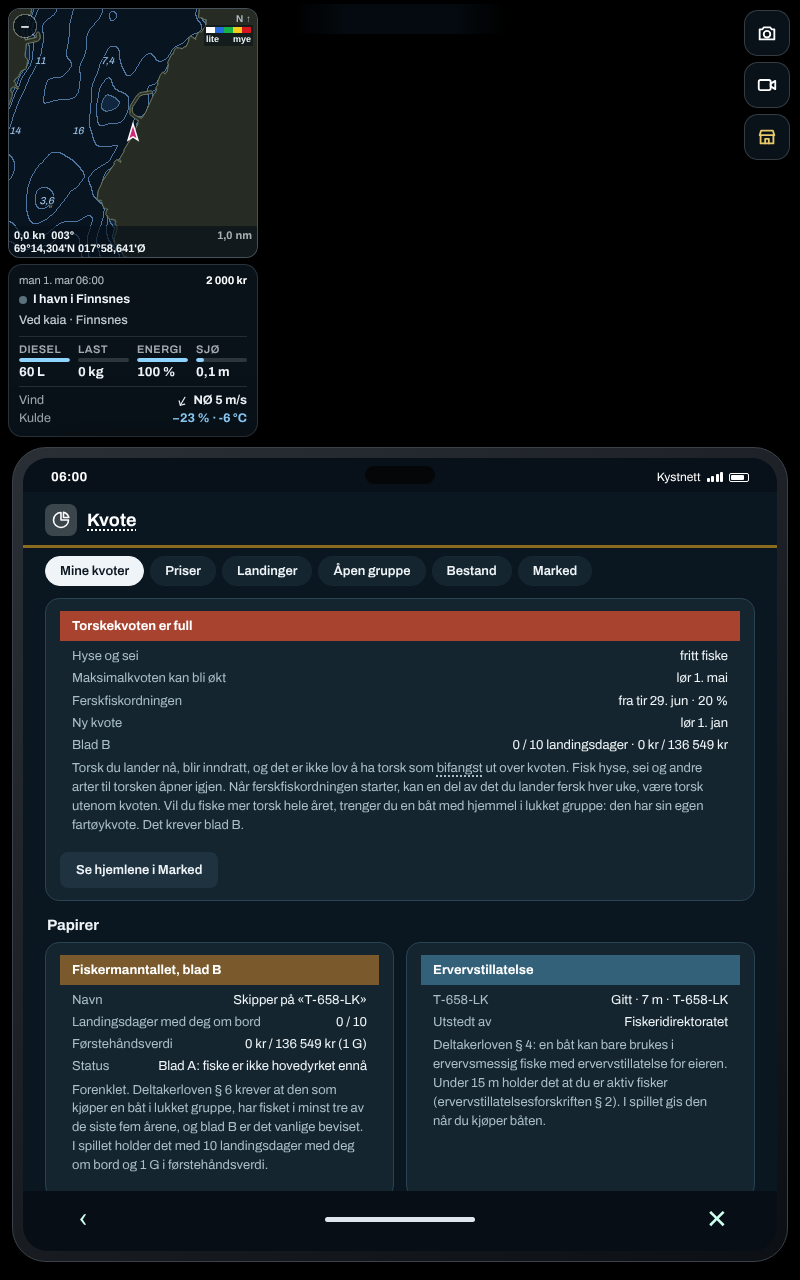
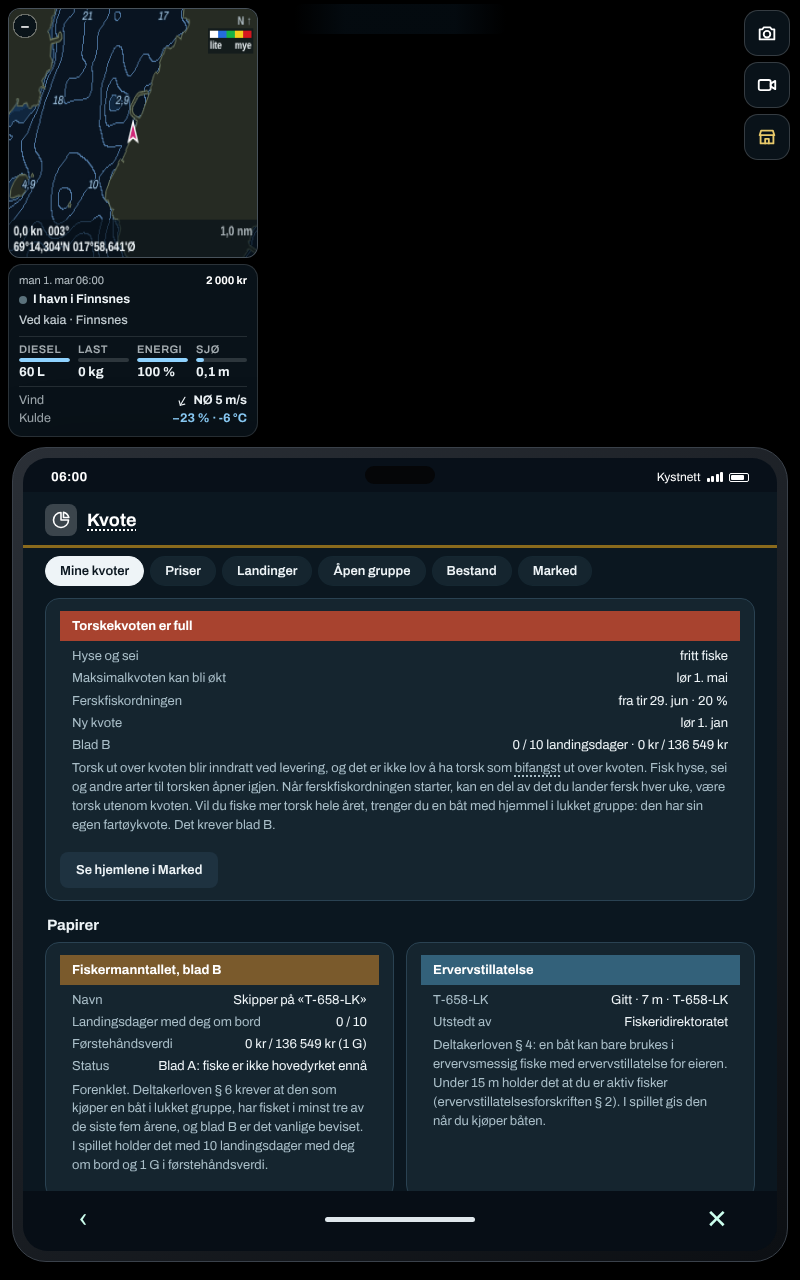
KV1 (steg 148): rettingene etter den uavhengige kontrollen
Kontrollen sjekket de fem «Ferdig når»-punktene (alle holdt) og fant sju ting. Rettet:
- Kortet «Torskekvoten er full» regner med torsken om bord, slik varselet i loggen gjør («Torsken om bord
  fyller kvoten» med kiloene), så loggen ikke sender spilleren til et kort som ikke vises.
- Mens ferskfiskordningen gjelder, sier kortet at torsk innenfor andelen går utenom kvoten, ikke at all
  torsk inndras.
- Brevet fra Fiskeridirektoratet kom to ganger etter et båtbytte i åpen gruppe: året står nå på lagringen
  (S.addSaidY), ikke på båtens kvote.
- kystOrd holdes per havn (KYSTC): et hjemsted uten egen kommune lette gjennom alle mottak hvert fiskeminutt.
- Fillista i køen og COVER for kvfulltest.
- Atferdssjekkene i enhetstesten er sett røde med tilleggene satt til null (13 FEIL), ikke bare på at
  funksjonene manglet.
Ikke endret: hjemstedet kan flyttes én gang uten at båten flyttes, så tillegget kan hentes ved å flytte
hjem; skrevet i systemdokumentet og meldt til Jonas.

Tester: enhetstestene 5448 OK, kvfulltest 16 OK (to nye sjekker), quotatest 18 OK, trip2 OK.

Claude-Session: https://claude.ai/code/session_013BxXiCpuL8btzFWUHpeW7u

Changed region(s): [[0.0938, 0.5938, 0.9062, 0.6562], [0.0, 0.0, 0.3125, 0.2188], [0.2812, 0.1562, 0.3125, 0.1875]]

diff --git a/src/js/ui/phone/04-kvote.js b/src/js/ui/phone/04-kvote.js
@@ -11,16 +11,23 @@
   // mer kvote»): the card says what is open now and when the next things come, with the dates, at the top of Mine kvoter. Nothing here is
   // a promise: a raise on 1 May or 1 June comes only when the group cannot take its quota (qyStep)
   function kvFull(H){
-    if (S.lic || access() !== 'open') return ''; const lim = codLimitNow(H), q = quotaState(); if (!isFinite(lim) || lim - q.torsk > 25) return '';
-    const y = yearH(H), d = doyH(H), Y = qyAt(H), pct = ffPct(H), F = S.fm || {n:0, kr:0, b:false}, rows = [[L('Hyse og sei', 'Haddock and saithe'), L('fritt fiske', 'free fishing')]];
+    // the cod aboard counts, as in the warning in the log (05-vessels.js fish): the card is there when the log sends the player here
+    if (S.lic || access() !== 'open') return ''; const lim = codLimitNow(H), q = quotaState(), ab = Math.max(0, S.hold.filter(x => x.sp === 'torsk').reduce((a, x) => a + x.kg, 0) - sorCodAboard());
+    if (!isFinite(lim) || lim - q.torsk - ab > 25) return '';
+    const y = yearH(H), d = doyH(H), Y = qyAt(H), pct = ffPct(H), F = S.fm || {n:0, kr:0, b:false}, landed = lim - q.torsk <= 25, nextFF = pct ? null : ffPlan(y).find(x => x[0] > d && x[1] > 0);
+    const rows = [[L('Hyse og sei', 'Haddock and saithe'), L('fritt fiske', 'free fishing')]];
+    if (!landed) rows.unshift([L('Torsk om bord', 'Cod aboard'), fmt(ab, 0) + ' kg · ' + L('igjen på kvoten ', 'left on the quota ') + fmt(Math.max(0, lim - q.torsk), 0) + ' kg']);
     if (Y.stop == null && Y.free == null){ const nx = [doyOf(y, 5, 1), doyOf(y, 6, 1)].find(x => x > d); if (nx != null) rows.push([L('Maksimalkvoten kan bli økt', 'The maximum quota may be raised'), dayStr(hOfDoy(y, nx))]); }
     if (pct) rows.push([L('Ferskfiskordningen', 'Fresh-fish scheme'), L('nå: ', 'now: ') + Math.round(pct * 100) + L(' % torsk av det du lander fersk', ' % cod of what you land fresh')]);
-    else { const p = ffPlan(y).find(x => x[0] > d && x[1] > 0); if (p) rows.push([L('Ferskfiskordningen', 'Fresh-fish scheme'), L('fra ', 'from ') + dayStr(hOfDoy(y, p[0])) + ' · ' + Math.round(p[1] * 100) + ' %']); }
+    else if (nextFF) rows.push([L('Ferskfiskordningen', 'Fresh-fish scheme'), L('fra ', 'from ') + dayStr(hOfDoy(y, nextFF[0])) + ' · ' + Math.round(nextFF[1] * 100) + ' %']);
     rows.push([L('Ny kvote', 'New quota'), dayStr(hOfDoy(y + 1, 0))]);
     rows.push([L('Blad B', 'Blad B'), F.b ? L('ført', 'entered') : fmt(F.n, 0) + ' / ' + BLADB.days + L(' landingsdager · ', ' landing days · ') + kr(F.kr) + ' / ' + kr(BLADB.kr)]);
-    return '<div class="ph-card papc" id="kvFull"><div class="pap-h" style="background:#a8432f">' + L('Torskekvoten er full', 'The cod quota is full') + '</div>' + rows.map(([a, b]) => kv(a, b)).join('') +
-      '<p class="ph-note">' + L('Torsk du lander nå, blir inndratt, og det er ikke lov å ha torsk som bifangst ut over kvoten. Fisk hyse, sei og andre arter til torsken åpner igjen. ' + (pct ? '' : 'Når ferskfiskordningen starter, kan en del av det du lander fersk hver uke, være torsk utenom kvoten. ') + 'Vil du fiske mer torsk hele året, trenger du en båt med hjemmel i lukket gruppe: den har sin egen fartøykvote. Det krever blad B.',
-        'Cod you land now is confiscated, and cod may not be a bycatch beyond the quota. Fish haddock, saithe and other species until the cod opens again. ' + (pct ? '' : 'When the fresh-fish scheme starts, a share of what you land fresh each week may be cod outside the quota. ') + 'To fish more cod all year you need a boat with a right in the closed group: it has a vessel quota of its own. That needs blad B.') + '</p>' +
+    // what happens to cod landed now: within the fresh-fish share of the week's fresh landings it is outside the quota, the rest is confiscated
+    const now = pct ? L('Kvoten er brukt opp. Torsk innenfor ferskfiskordningen, ' + Math.round(pct * 100) + ' % av det du lander fersk hver uke, går utenom kvoten; torsk ut over det blir inndratt. ', 'The quota is used up. Cod within the fresh-fish scheme, ' + Math.round(pct * 100) + ' % of what you land fresh each week, is outside the quota; cod beyond that is confiscated. ')
+      : L('Torsk ut over kvoten blir inndratt ved levering, og det er ikke lov å ha torsk som bifangst ut over kvoten. Fisk hyse, sei og andre arter til torsken åpner igjen. ', 'Cod beyond the quota is confiscated at the landing, and cod may not be a bycatch beyond the quota. Fish haddock, saithe and other species until the cod opens again. ') +
+        (nextFF ? L('Når ferskfiskordningen starter, kan en del av det du lander fersk hver uke, være torsk utenom kvoten. ', 'When the fresh-fish scheme starts, a share of what you land fresh each week may be cod outside the quota. ') : '');
+    return '<div class="ph-card papc" id="kvFull"><div class="pap-h" style="background:#a8432f">' + (landed ? L('Torskekvoten er full', 'The cod quota is full') : L('Torsken om bord fyller kvoten', 'The cod aboard fills the quota')) + '</div>' + rows.map(([a, b]) => kv(a, b)).join('') +
+      '<p class="ph-note">' + now + L('Vil du fiske mer torsk hele året, trenger du en båt med hjemmel i lukket gruppe: den har sin egen fartøykvote. Det krever blad B.', 'To fish more cod all year you need a boat with a right in the closed group: it has a vessel quota of its own. That needs blad B.') + '</p>' +
       '<button class="ph-btn alt" data-pa="sub" data-s="mkt">' + L('Se hjemlene i Marked', 'See the rights in Market') + '</button></div>';
   }
   // Ø10c: the caps south of 62° N (core/03d-quota.js SORQ): the open group's 3 tonnes of cod in the North Sea and the jig exception's 3 tonnes

diff --git a/src/js/core/03d-quota.js b/src/js/core/03d-quota.js
@@ -239,7 +239,9 @@ function portKom(pt){
   // a plant with a place name for a municipality: the nearest plant's municipality within the same town, else the place name itself
   return bd < 3 || !own ? best : String(own).toLowerCase();
 }
-function kystOrd(pid){ const pt = pid && typeof portById === 'function' ? portById(pid) : null; if (!pt) return false; const w = portKom(pt).split(' '); return KYSTORD.some(k => w.includes(k)); }
+// (kept per harbour: codLimitNow asks every fishing minute, and a home without a municipality of its own looks through every plant)
+const KYSTC = {};
+function kystOrd(pid){ if (pid && KYSTC[pid] != null) return KYSTC[pid]; const pt = pid && typeof portById === 'function' ? portById(pid) : null; if (!pt) return false; const w = portKom(pt).split(' '); return KYSTC[pid] = KYSTORD.some(k => w.includes(k)); }
 // this save's additions now, kg: {kyst, alder, sum} (the open group only: codLimits asks)
 function openAdd(H){ if (H == null) H = S.t / 60; const O = yearQuota(yearH(H)).open, kyst = kystOrd(S.home || HOME0) ? Math.round(O.kyst * 1000) : 0, alder = Math.round(O.alder * 1000); return {kyst, alder, sum:kyst + alder}; }
 // the part of a landing's quota cod that is taken from the open group's quota: the coastal scheme has its own set-aside (0.9 % of
@@ -249,9 +251,10 @@ function codGroupKg(before, codQ, lim, kyst){ if (!(kyst > 0) || !isFinite(lim))
 // the Directorate's letter about the vessel's cod quota in the open group, once a year when over half of it is landed (and so at once,
 // the day the additions came, for those who had filled § 21's quota): what the quota is made of and what is left
 function openAddNews(H){
-  if (S.lic || access() !== 'open') return; const q = quotaState(); if (q.addSaid) return;
-  const lim = codLimitNow(H); if (!isFinite(lim) || q.torsk < 0.5 * lim) return; q.addSaid = 1;
-  const l = codLimits(H), y = yearH(H), en = kg => (kg / 1000).toFixed(1), t1 = kg => en(kg).replace('.', ','), b = (codOpen(H) ? l.base.max : l.base.guar), left = Math.max(0, lim - q.torsk);
+  // (S.addSaidY, the year, on the save and not on the vessel's quota: a boat traded for another in the open group starts a new S.quota)
+  if (S.lic || access() !== 'open') return; const q = quotaState(), y = yearH(H); if (S.addSaidY === y) return;
+  const lim = codLimitNow(H); if (!isFinite(lim) || q.torsk < 0.5 * lim) return; S.addSaidY = y;
+  const l = codLimits(H), en = kg => (kg / 1000).toFixed(1), t1 = kg => en(kg).replace('.', ','), b = (codOpen(H) ? l.base.max : l.base.guar), left = Math.max(0, lim - q.torsk);
   msg('Fiskeridirektoratet', 'Du har landet over halvparten av torskekvoten din i åpen gruppe. Kvoten din i ' + y + ' er ' + t1(lim) + ' tonn: ' + t1(b) + ' tonn etter båtens lengde' + (l.add.kyst ? ', ' + t1(l.add.kyst) + ' tonn fra kystfiskeordningen' : '') + ' og ' + t1(l.add.alder) + ' tonn i alderstillegg. Igjen nå: ' + t1(left) + ' tonn.',
     'You have landed over half of your cod quota in the open group. Your quota in ' + y + ' is ' + en(lim) + ' tonnes: ' + en(b) + ' tonnes by the vessel\'s length' + (l.add.kyst ? ', ' + en(l.add.kyst) + ' tonnes from the coastal-fishing scheme' : '') + ' and ' + en(l.add.alder) + ' tonnes as the age addition. Left now: ' + en(left) + ' tonnes.');
 }

diff --git a/tests/kvfulltest.py b/tests/kvfulltest.py
@@ -60,6 +60,12 @@ async def main():
         await pg.screenshot(path=os.path.join(OUT, 'kvfull_vangshamn_liggende.png')); fits.append(await pg.evaluate(FIT))
         ld = await pg.evaluate(LAND + "(500)")
         check(ld['room'] == ya and ld['codQ'] == ya and ld['conf'] == 500 and ld['grp'] == ya, 'leveringen: alderstillegget går på kvoten (alt på gruppekvota utenfor ordningen) og 500 kg over blir inndratt', ld)
+        # 2b. the cod aboard counts as in the log's warning: 1 000 kg left on the quota and 1 200 kg aboard shows the card, with what is left
+        ab = await pg.evaluate("(() => { const q = quotaState(), lim = codLimitNow(S.t / 60); q.torsk = lim - 1000; S.hold = [{sp:'torsk', kg:1200, t:S.t, q:1}]; PHONE.render(); const a = (document.querySelector('#kvFull') || {}).textContent || ''; S.hold = [{sp:'torsk', kg:400, t:S.t, q:1}]; PHONE.render(); const b = !!document.querySelector('#kvFull'); S.hold = []; return {a, b}; })()")
+        check('Torsken om bord fyller kvoten' in ab['a'] and 'Torsk om bord1 200 kg' in ab['a'].replace('\u00a0', ' ') and not ab['b'], 'torsken om bord teller: 1 000 kg igjen og 1 200 kg om bord viser kortet «Torsken om bord fyller kvoten», 400 kg om bord gjør det ikke', ab['a'][:160])
+        # 2c. the fresh-fish scheme on (after 29 June): the card says what goes outside the quota, not that all cod is confiscated
+        ff = await pg.evaluate("(() => { const t0 = S.t, y = yearH(S.t / 60); S.t = Math.round(hOfDoy(y, doyOf(y, 8, 1)) * 60); const q = freshQuota(), H = S.t / 60, pct = ffPct(H); q.torsk = codLimitNow(H); PHONE.render(); const a = (document.querySelector('#kvFull') || {}).textContent || ''; const fin = isFinite(codLimitNow(H)); S.t = t0; S.quota = null; PHONE.render(); return {a, pct, fin}; })()")
+        check((not ff['fin']) or (ff['pct'] > 0 and 'går utenom kvoten' in ff['a'] and 'Når ferskfiskordningen starter' not in ff['a'] and 'Fisk hyse, sei og andre arter til torsken åpner igjen' not in ff['a']), '1. august med full kvote: kortet sier at torsk innenfor ferskfiskordningen går utenom kvoten, ikke at all torsk inndras', {'pct': ff['pct'], 'fin': ff['fin'], 'a': ff['a'][:260]})
         # 3. the coast, three more homes: north (Honningsvåg, in), middle (Henningsvær, out), south of 62° N (Egersund, out)
         for name, inn in [('Honningsvåg', True), ('Skjervøy', True), ('Henningsvær', False), ('Egersund', False)]:
             s = await pg.evaluate(SETUP + "(%s, 0.2)" % json.dumps(name))

diff --git a/tests/run.py b/tests/run.py
@@ -223,7 +223,7 @@ COVER['src/js/ui/phone/04b-kvotemarked.js'] = ['kvotemarkedtest', 'quotatest']
 COVER['src/js/ui/10t-kvotemarked.js'] = ['kvotemarkedtest']
 COVER['tests/kvotemarkedtest.py'] = ['kvotemarkedtest']
 COVER['src/js/ui/phone/04-kvote.js'] = COVER['src/js/ui/phone/04-kvote.js'] + ['kvotemarkedtest']
-for _f in ('src/js/ui/phone/04-kvote.js', 'src/js/core/03d-quota.js', 'tests/kvfulltest.py'): COVER.setdefault(_f, []).append('kvfulltest')   # KV1, steg 148
+for _f in ('src/js/ui/phone/04-kvote.js', 'src/js/core/03d-quota.js', 'src/js/ui/phone/09-vaer-post-salg-redning.js', 'src/js/core/03-simulation.js', 'tests/kvfulltest.py'): COVER.setdefault(_f, []).append('kvfulltest')   # KV1, steg 148
 COVER['tests/unit/market3.test.mjs'] = []
 # KM4 (the boat with or without her right, 11.11.2026): megletest plays the choice, the move and the yard's trade-in
 for _f in ('src/js/ui/phone/14-act.js', 'src/js/ui/phone/10-fartoy.js'):

diff --git a/docs/systemer/kodekart.md b/docs/systemer/kodekart.md
@@ -517,7 +517,7 @@ STABILITY: hydrostatics, the boat's motions in a sea, and what they do to the wo
   - 276 `hullX(R)`
   - 291 `hullStep(H, R, X, eta, deta, dt, o)`
 
-## `src/js/core/03d-quota.js` (614 linjer)
+## `src/js/core/03d-quota.js` (617 linjer)
 
 Quotas for cod, haddock and saithe north of 62° N. The regulation as it stood from 1 October 2026 (J-187-2026, fiskeridir.no)
 
@@ -549,70 +549,70 @@ Quotas for cod, haddock and saithe north of 62° N. The regulation as it stood f
   - 213 `openMaxAdd(H)`
 - **214** the open group's two additions to the cod quota (KV1, steg 148, 25.11.2026; J-161-2026 §§ 22 and 23, read on fiskeridir.no
   - 233 `portKom(pt)`
-  - 242 `kystOrd(pid)`
-  - 244 `openAdd(H)`
-  - 248 `codGroupKg(before, codQ, lim, kyst)`
-  - 251 `openAddNews(H)`
-  - 262 `ffPlan(y)`
-  - 270 `ffPct(H)`
-- **272** the closed group's register: a fixed number of rights (1 622 in the cod fishery north of 62° N on 17.10.2025, case document
-  - 290 `npcReg()`
-  - 292 `regSend(fn, id)`
-  - 297 `regTake(id)`
-  - 299 `regFree(id)`
-  - 301 `regSeller(id, H)`
-- **303** structure quotas (forskrift om spesielle kvoteordninger for kystfiskeflåten, J-244-2025): quota lengths 11–27.99 m may buy a
-  - 311 `structFits(l, add)`
-  - 312 `structRoom(l, id)`
-  - 313 `structPrice(id, H)`
-  - 315 `structIn(l, id, H)`
-  - 316 `licExtra(l)`
-  - 318 `structExpire(l, y)`
-- **319** the special scheme for quota lengths under 11 m (kap. 2, from 2025): an owner with two such boats, both owned since the year
-  - 321 `twoOK(la, lb, y)`
-- **322** quota cooperation (J-187-2026 § 31): two closed-group boats under 11 m with different owners; both owners aboard, the passive
-  - 326 `coopOffer(H)`
-  - 327 `coopOK(l, y)`
-- **329** the ocean permits (H1 of docs/planer/havsteget.md, 03.11.2026). Jonas' choices the same day: V1 A (the autoliner first), V2 B
-- **351** the snow crab's regulation year by year, as data (V4 of docs/planer/havsteget-h3-snokrabbe.md, Jonas 06.11.2026: «Gjør det som blir
-  - 370 `snoQuota(H)`
-  - 372 `snoRoom(H)`
-  - 375 `snoFlexNewYear(q, y)`
-  - 381 `snoYear(y)`
-- **396** the quota price that lives (KM5 of docs/planer/kvotemarkedet.md, steg 64; Jonas 07.11.2026, V4 B: «V4, anbefalt»)
-  - 418 `kpkOut(H, y)`
-  - 426 `kpkCodIx(H)`
-  - 429 `kpkAt(H)`
-  - 439 `havLicFor(type)`
-  - 441 `havF(id, sp, y)`
-  - 452 `havGroup(id, y)`
-  - 455 `havQ(l, H)`
-  - 463 `havLicWhy(type)`
-  - 470 `havOffer(id, H)`
-  - 473 `havValue(l, H)`
-  - 487 `snoLicValue(y)`
-  - 493 `havPrice(type, H)`
-  - 495 `havLicTake(type, H)`
-- **499** ling and tusk for vessels of 28 m and over (H2a of docs/planer/havsteget-h2-autoline.md, 05.11.2026). J-128-2026 (2026) and the
-  - 507 `lbStop(y)`
-  - 511 `lbShare(sp, H)`
-  - 513 `lbNews(H)`
-- **519** Greenland halibut (blåkveite) for vessels under 28 m (J-241-2025, the regulation for 2026; docs/blakveite.md 2-3, 07.10.2026)
-  - 527 `bkSeason(y)`
-  - 530 `bkOpen(H)`
-  - 536 `bkDirect(H, len)`
-  - 538 `bkState(H)`
-  - 541 `bkAllow(H, bk, all)`
-  - 546 `bkLanded(H, bk, all)`
-  - 548 `bkNews(H)`
-- **554** cod south of 62° N (Ø10c, steg 68, 11.11.2026; docs/systemer/kvoter-og-regler.md 5.28e). Forskrift 19. desember 2025 nr. 2805 om
-  - 588 `sorOpenId()`
-  - 589 `sorAcc()`
-  - 592 `sorCodAboard()`
-  - 595 `sorRoom(k, q, acc)`
-  - 597 `sorLeft(k)`
-  - 604 `sorConf(byc, codHold, q, acc)`
-  - 613 `sorLanded(q, ok)`
+  - 244 `kystOrd(pid)`
+  - 246 `openAdd(H)`
+  - 250 `codGroupKg(before, codQ, lim, kyst)`
+  - 253 `openAddNews(H)`
+  - 265 `ffPlan(y)`
+  - 273 `ffPct(H)`
+- **275** the closed group's register: a fixed number of rights (1 622 in the cod fishery north of 62° N on 17.10.2025, case document
+  - 293 `npcReg()`
+  - 295 `regSend(fn, id)`
+  - 300 `regTake(id)`
+  - 302 `regFree(id)`
+  - 304 `regSeller(id, H)`
+- **306** structure quotas (forskrift om spesielle kvoteordninger for kystfiskeflåten, J-244-2025): quota lengths 11–27.99 m may buy a
+  - 314 `structFits(l, add)`
+  - 315 `structRoom(l, id)`
+  - 316 `structPrice(id, H)`
+  - 318 `structIn(l, id, H)`
+  - 319 `licExtra(l)`
+  - 321 `structExpire(l, y)`
+- **322** the special scheme for quota lengths under 11 m (kap. 2, from 2025): an owner with two such boats, both owned since the year
+  - 324 `twoOK(la, lb, y)`
+- **325** quota cooperation (J-187-2026 § 31): two closed-group boats under 11 m with different owners; both owners aboard, the passive
+  - 329 `coopOffer(H)`
+  - 330 `coopOK(l, y)`
+- **332** the ocean permits (H1 of docs/planer/havsteget.md, 03.11.2026). Jonas' choices the same day: V1 A (the autoliner first), V2 B
+- **354** the snow crab's regulation year by year, as data (V4 of docs/planer/havsteget-h3-snokrabbe.md, Jonas 06.11.2026: «Gjør det som blir
+  - 373 `snoQuota(H)`
+  - 375 `snoRoom(H)`
+  - 378 `snoFlexNewYear(q, y)`
+  - 384 `snoYear(y)`
+- **399** the quota price that lives (KM5 of docs/planer/kvotemarkedet.md, steg 64; Jonas 07.11.2026, V4 B: «V4, anbefalt»)
+  - 421 `kpkOut(H, y)`
+  - 429 `kpkCodIx(H)`
+  - 432 `kpkAt(H)`
+  - 442 `havLicFor(type)`
+  - 444 `havF(id, sp, y)`
+  - 455 `havGroup(id, y)`
+  - 458 `havQ(l, H)`
+  - 466 `havLicWhy(type)`
+  - 473 `havOffer(id, H)`
+  - 476 `havValue(l, H)`
+  - 490 `snoLicValue(y)`
+  - 496 `havPrice(type, H)`
+  - 498 `havLicTake(type, H)`
+- **502** ling and tusk for vessels of 28 m and over (H2a of docs/planer/havsteget-h2-autoline.md, 05.11.2026). J-128-2026 (2026) and the
+  - 510 `lbStop(y)`
+  - 514 `lbShare(sp, H)`
+  - 516 `lbNews(H)`
+- **522** Greenland halibut (blåkveite) for vessels under 28 m (J-241-2025, the regulation for 2026; docs/blakveite.md 2-3, 07.10.2026)
+  - 530 `bkSeason(y)`
+  - 533 `bkOpen(H)`
+  - 539 `bkDirect(H, len)`
+  - 541 `bkState(H)`
+  - 544 `bkAllow(H, bk, all)`
+  - 549 `bkLanded(H, bk, all)`
+  - 551 `bkNews(H)`
+- **557** cod south of 62° N (Ø10c, steg 68, 11.11.2026; docs/systemer/kvoter-og-regler.md 5.28e). Forskrift 19. desember 2025 nr. 2805 om
+  - 591 `sorOpenId()`
+  - 592 `sorAcc()`
+  - 595 `sorCodAboard()`
+  - 598 `sorRoom(k, q, acc)`
+  - 600 `sorLeft(k)`
+  - 607 `sorConf(byc, codHold, q, acc)`
+  - 616 `sorLanded(q, ok)`
 
 ## `src/js/core/03e-rules.js` (601 linjer)
 
@@ -3088,16 +3088,16 @@ the Regler app (R3 of the rules plan, 05.10.2026): «Her og nå» answers «can 
   - 46 `ruLearn()`
   - 57 `regler()`
 
-## `src/js/ui/phone/04-kvote.js` (106 linjer)
+## `src/js/ui/phone/04-kvote.js` (113 linjer)
 
 the Kvote app: your quotas, the open group's season, the stocks, and the market for rights (core/03d-quota.js)
 
   - 5 `kvote()`
   - 13 `kvFull(H)`
-  - 29 `kvSor()`
-  - 42 `kvOpen(H)`
-  - 60 `kvStock(H)`
-  - 78 `kvReg(H)`
+  - 36 `kvSor()`
+  - 49 `kvOpen(H)`
+  - 67 `kvStock(H)`
+  - 85 `kvReg(H)`
 
 ## `src/js/ui/phone/04b-kvotemarked.js` (213 linjer)
 

diff --git a/docs/planer/koen.md b/docs/planer/koen.md
@@ -24,7 +24,7 @@ Spillet er live. Porten for de første brukerne og lanseringslinja er arkivert (
 ## Øktene som kjører
 
 - `ccr-013bxxie-121` (Jonas' økt 16.11.2026): steg 121 FB3, føttene i gange. Eier `src/js/deckcrew.js`, `src/js/view3d/08-plants.js` (`drawWorker` og sjøbein-hjelperne over den), i `src/js/view3d/20-trawl-seine.js` bare `drawDeckCrew` og `npcCrewDraw`, `tests/crewwalk.py`, `tests/sjobein.py`, ny `tests/unit/fotgli.test.mjs` og ny `tests/fotgli.py`. Ikke `ui/phone/07-patch.js` (118 eier den; patchnotatet står i raden).
-- `ccr-b7b2f394-jdf54x` (Jonas' økt 25.11.2026): steg 148 KV1, åpen gruppes tillegg og «kvota er full». Eier `codLimits` og det nye om tilleggene i `core/03-simulation.js` og `core/03d-quota.js`, `regLetters` i `core/06b-coastports.js`, torskevarselet i `core/05-vessels.js`, `ui/phone/04-kvote.js` og kvotekortet i `ui/phone/08-home-papers-merker.js`.
+- `ccr-b7b2f394-jdf54x` (Jonas' økt 25.11.2026): steg 148 KV1, åpen gruppes tillegg og «kvota er full». Eier `codLimits` og det nye om tilleggene i `core/03-simulation.js` og `core/03d-quota.js`, torskevarselet i `core/05-vessels.js`, `codGrp` i `sell` i `ui/08-actions.js`, `ui/phone/04-kvote.js` og kvotekortet i `ui/phone/09-vaer-post-salg-redning.js`.
 
 
 
@@ -68,7 +68,7 @@ Rekkefølgen tar hensyn til at H3b holder `core/03-simulation.js`, `04-crew.js`,
 | 145 | **AN2-F5** Trafikken og resten: liggende fartøy som hindre og NPC-er ut av spillerens kaiplass (valg 1), vikeplikt i korridoren, søvn, retur, driftsplan, redningsskøyta; «Hopp» får ny tidskilde (`hoy`: PR til Jonas) | Autonav 2.0 | venter på 144 | 144 | `core/05e-sjovei.js`, `05-vessels.js`, kallene til `leiaRoute` i `core/06-*` og `ui/` | `autonav-2-0.md` |
 | 146 | **AN2-F6** Bytte og slipp: full jakt, regresjon, testutgaven, flagget utenfor lagringen, fangsten merker motoren, gradvis 10/50/100 % (valg 7) | Autonav 2.0 | venter på 145 | 145 | `core/16e-anvtreff.js` (ett felt), flagget | `autonav-2-0.md` |
 | 147 | **AN2-F7** Rydding: gammel Autonav ut (`11-route.js`, `11b-obstacles.js`, `11c-leinett.js`, linjefølgingen og «hendene» i `16b-dyn.js`), etter to uker uten treff hos spillerne | Autonav 2.0 | venter på 146 | 146 | de gamle rutefilene | `autonav-2-0.md` |
-| 148 | **KV1** Åpen gruppes tillegg og «kvota er full»: kystfiskeordningen (+3,5 t, J-161-2026 § 22) for hjemsteder i ordningens kommuner, alderstillegget (+2 t, § 23) for alle, og Kvote-appen og varselet som sier hva spilleren kan gjøre når torskekvota er full (Jonas 25.11.2026 etter spillernes ønsker: «Kjør på med ønske #1», valget «Kystfiskeordningen, Alderstillegget») | Kvoter | pågår (Jonas' økt, gren `ccr-b7b2f394-jdf54x`, 25.11.2026) | – | `core/03-simulation.js` (`codLimits`), `core/03d-quota.js`, `core/06b-coastports.js` (`regLetters`), `core/05-vessels.js` (varselet), `ui/phone/04-kvote.js`, `ui/phone/08-home-papers-merker.js`, `ui/phone/07-patch.js`, `tests/unit/` | `start/148.md`, `kvoter-og-regler.md` 5.5 |
+| 148 | **KV1** Åpen gruppes tillegg og «kvota er full»: kystfiskeordningen (+3,5 t, J-161-2026 § 22) for hjemsteder i ordningens kommuner, alderstillegget (+2 t, § 23) for alle, og Kvote-appen og varselet som sier hva spilleren kan gjøre når torskekvota er full (Jonas 25.11.2026 etter spillernes ønsker: «Kjør på med ønske #1», valget «Kystfiskeordningen, Alderstillegget») | Kvoter | venter på Jonas: flettingen til arbeidsgrenen (bygd, testet og kontrollert 25.11.2026 i Jonas' økt; ligger på grenen `ccr-b7b2f394-jdf54x`, ikke på testadressen ennå; ingen migrering). `docs/spill-dette/148.md`. Sporet Kvoter har ikke flere steg i køen | – | `core/03-simulation.js` (`codLimits`), `core/03d-quota.js`, `core/05-vessels.js` (varselet og brevet i timetikket), `ui/08-actions.js` (`sell`: det som føres mot gruppekvota), `ui/phone/04-kvote.js`, `ui/phone/09-vaer-post-salg-redning.js` (kvotekortet), `ui/07c-handbook.js`, `ui/phone/07-patch.js`, `tests/unit/apentillegg.test.mjs`, `tests/kvfulltest.py` | `start/148.md`, `kvoter-og-regler.md` 5.5 |
 | 18b | **Ø12 D** Driftsplan 2: de siste navnene fra den gamle planen | Driftsplan 2 | ferdig (3b52223 og opptest/vesseltest etter, 12.11.2026, versjon 484715beb532; rullet ut til testutgaven; Ø11.9-øktas merknad: `fleet2test`, `opptest` og `vesseltest` var testenes forventninger og er rettet, se «Ø12 D» i `docs/systemer/driftsplan.md`; siste steg på sporet) | steg 18 (ferdig) | `core/06d-plan-felles.js`, `06g-plan2.js`, `05-vessels.js`, `03-simulation.js`, `13-work.js`, `10-gear.js`, `06-services.js`, `phone/11-rederi.js`, `tests/unit/havplan.test.mjs` | backloggen «Ø12 C …, det som står igjen» |
 | 19 | **Ø11.8** Farvannet: fartsgrensene og sjømerkene | Lover og sikkerhet | rullet ut til testutgaven (12.11.2026, Jonas' økt, gren `ccr-c987b885-ap4668`; Jonas: «rull ut når testene er ferdige»; ingen migrering). Kystverkets 74 statlige fartsgrenser (NLOD 2.0) der de gjelder, 5 knop innen 500 m fra havnepunktene ellers, ingen strek i kartet (Jonas 12.11.2026: «enig med ditt forslag» på begge), Autonav holder grensa også med spillet lukket, varselet for hånd, «feil side av merket». Hos spillerne med neste slipp. `docs/spill-dette/19.md`; Kystverket på kildesiden venter på Jonas (`src/legal/`) | steg 18 (ferdig) | ny `tools/fart/`, `src/data/fart.json`; `core/05e-sjovei.js`, `05-vessels.js`, `16b-dyn.js`, `ui/03-map.js`, `03a-chart.js` | `lover-regler-sikkerhet.md` kap. 6 |
 | 27 | **Ø11.9** Arbeidsavtalen | Lover og sikkerhet | rullet ut til testutgaven (28ba4ba, 12.11.2026, versjon 4bfc9919cea7 på `test.detstorebla.no`; Jonas' økt, gren `claude/o11-9-arbeidsavtalen`; porten holdt; ingen migrering). Valg 40 A (Jonas 12.11.2026: «A: Loven, ekte tid (anbefalt)»): avtalen på kortet i Mannskap, prøvetid seks måneder, lovens frister i ekte tid (14 dager / én måned), «Be … bli», grunnen og fristen i loggen. Hos spillerne med neste slipp. `docs/spill-dette/27.md`. Siste steg på sporet: ingen ny startmelding | steg 8 (ferdig) | `core/04-crew.js`, `14-crewlife.js`, `phone/13-mannskap-bank-meld.js` | `lover-regler-sikkerhet.md` kap. 6 (fristene i ekte tid kan bli et valg) |

diff --git a/docs/systemer/kvoter-og-regler.md b/docs/systemer/kvoter-og-regler.md
@@ -88,10 +88,12 @@ Kvotesystemet ligger i `core/03d-quota.js` (04.10.2026, plan Q1–Q6). Grunnlage
   - **Senere år:** tilleggene skaleres med gruppekvoten som de andre kvotene i åpen gruppe (`yearQuota(y).open.kyst` og `.alder`); forskriften for dem er ikke skrevet.
   - **Gruppekvota:** kystfiskeordningen har sin egen avsetning (0,9 %, minst 3 000 t i kjeden), så torsken som landes på de 3,5 tonnene, belastes ikke åpen gruppes kvote: `codGroupKg` tar den øverste delen av fartøyets grense ut av det som føres på `qyAt().me` og sendes som `kgq` til den felles verdenen. Alderstillegget belastes gruppekvoten (kjeden har ingen egen avsetning for det).
   - **Ikke med:** rekrutteringskvotebonusen (§ 24, 16 t samlet i stedet for §§ 21–23 for fartøy som er tildelt den; Jonas valgte den bort 25.11.2026: den tildeles etter søknad, og 16 t er mer enn den minste hjemmelen i lukket gruppe gir). Bifangst av torsk ut over kvoten er ikke lov (§ 21 siste ledd: «Det er ikke adgang til å ha bifangst av torsk utover de fastsatte kvotene»), så ønsket om 10 % bifangst når kvota er tom, bygges ikke; ferskfiskordningen (§ 25) er den ene åpningen.
-  - **Kvote-appen:** kvotekortet for åpen gruppe viser § 21 (maksimal og garantert), kystfiskeordningen (tillegget, eller «gjelder ikke hjemstedet ditt»), alderstillegget, «Kvoten din nå» og «Igjen nå». Når kvota er full (25 kg eller mindre igjen), står kortet «Torskekvoten er full» øverst i Mine kvoter (`kvFull` i `ui/phone/04-kvote.js`): hyse og sei er fritt fiske, datoen maksimalkvoten kan bli økt (1. mai eller 1. juni, bare så lenge fisket ikke er stoppet), når ferskfiskordningen starter, ny kvote 1. januar, fremdriften mot blad B og knappen til Marked. Fanen Åpen gruppe nevner tilleggene. Varselet i loggen når kvota fylles, viser til Kvote-appen.
-  - **Brevet:** Fiskeridirektoratet skriver én gang i året når over halve kvota er landet (`openAddNews`, `S.quota.addSaid`): hva kvota består av, og hvor mye som er igjen. De som alt hadde fylt § 21-kvota da tilleggene kom, får det med en gang.
-  - **Lagringen:** ingenting i formatet er endret; `S.quota.addSaid` er et nytt valgfritt felt. En lagring som hadde full kvote, har tilleggene å gå på fra første time etter oppdateringen.
-  - **Tester:** `tests/unit/apentillegg.test.mjs` (30 sjekker: 22 steder i ordningen og 15 utenfor, kvoten før og etter, senere år, lukket gruppe, brevet, `codGroupKg`; sett rød før funksjonene fantes) og `tests/kvfulltest.py` (kortene i 1280×800, 800×1280 og 390×844, leveringen med inndragning over grensen, og stikkprøvene Båtsfjord, Honningsvåg, Skjervøy, Vangshamn, Henningsvær og Egersund).
+  - **Kvote-appen:** kvotekortet for åpen gruppe viser § 21 (maksimal og garantert), kystfiskeordningen (tillegget, eller «gjelder ikke hjemstedet ditt»), alderstillegget, «Kvoten din nå» og «Igjen nå». Når kvota er full (25 kg eller mindre igjen, torsken om bord regnet med, slik varselet i loggen regner; da heter kortet «Torsken om bord fyller kvoten» og viser kiloene), står kortet «Torskekvoten er full» øverst i Mine kvoter (`kvFull` i `ui/phone/04-kvote.js`). Mens ferskfiskordningen gjelder, sier kortet at torsk innenfor andelen går utenom kvoten og resten inndras, ikke at all torsk inndras. Radene: hyse og sei er fritt fiske, datoen maksimalkvoten kan bli økt (1. mai eller 1. juni, bare så lenge fisket ikke er stoppet), når ferskfiskordningen starter, ny kvote 1. januar, fremdriften mot blad B og knappen til Marked. Fanen Åpen gruppe nevner tilleggene. Varselet i loggen når kvota fylles, viser til Kvote-appen.
+  - **Brevet:** Fiskeridirektoratet skriver én gang i året når over halve kvota er landet (`openAddNews`, året i `S.addSaidY` på lagringen og ikke på båtens kvote, så et båtbytte i åpen gruppe ikke gir et nytt brev): hva kvota består av, og hvor mye som er igjen. De som alt hadde fylt § 21-kvota da tilleggene kom, får det med en gang.
+  - **Lagringen:** ingenting i formatet er endret; `S.addSaidY` er et nytt valgfritt felt. En lagring som hadde full kvote, har tilleggene å gå på fra første time etter oppdateringen.
+  - **Hjemstedet kan flyttes én gang** (Innstillinger › Hjemsted, `S.moved`), uten at båten flyttes. En spiller kan derfor velge et hjemsted i ordningen og få tillegget. Det er slik § 22 virker (eieren må være bosatt der), og flyttingen kan ikke gjøres om.
+  - **Kontrollen (25.11.2026)** fant sju ting; rettet: kortet regnet ikke med torsken om bord slik varselet gjør, teksten sa at all torsk inndras også mens ferskfiskordningen gjelder, brevet kunne komme to ganger etter et båtbytte, `kystOrd` lette gjennom alle mottak hvert fiskeminutt for et hjemsted uten egen kommune (nå holdt per havn, `KYSTC`), fillista i køen og `COVER`, og atferdssjekkene i enhetstesten var bare sett røde på at funksjonene manglet (nå sett røde med tilleggene satt til null: 13 FEIL).
+  - **Tester:** `tests/unit/apentillegg.test.mjs` (32 sjekker: 22 steder i ordningen og 15 utenfor, kvoten før og etter, senere år, lukket gruppe, brevet, `codGroupKg`; sett rød før funksjonene fantes) og `tests/kvfulltest.py` (kortene i 1280×800, 800×1280 og 390×844, leveringen med inndragning over grensen, og stikkprøvene Båtsfjord, Honningsvåg, Skjervøy, Vangshamn, Henningsvær og Egersund).
 - **Lukket gruppe** (§§ 16, 18, 19, `HJ` og `licQ`):
   - **Torsk:** kvotefaktor × årets kvoteenhet for gruppen. I 2026 er enheten 8,4172 / 7,2662 / 6,9986 / 6,9982.
   - **Hyse og sei:** garantert kvote og maksimalkvote etter båtens største lengde, skalert med Norges kvote. Hyse under 11 m har ingen grense, slik det er fra 31.08.2026.
